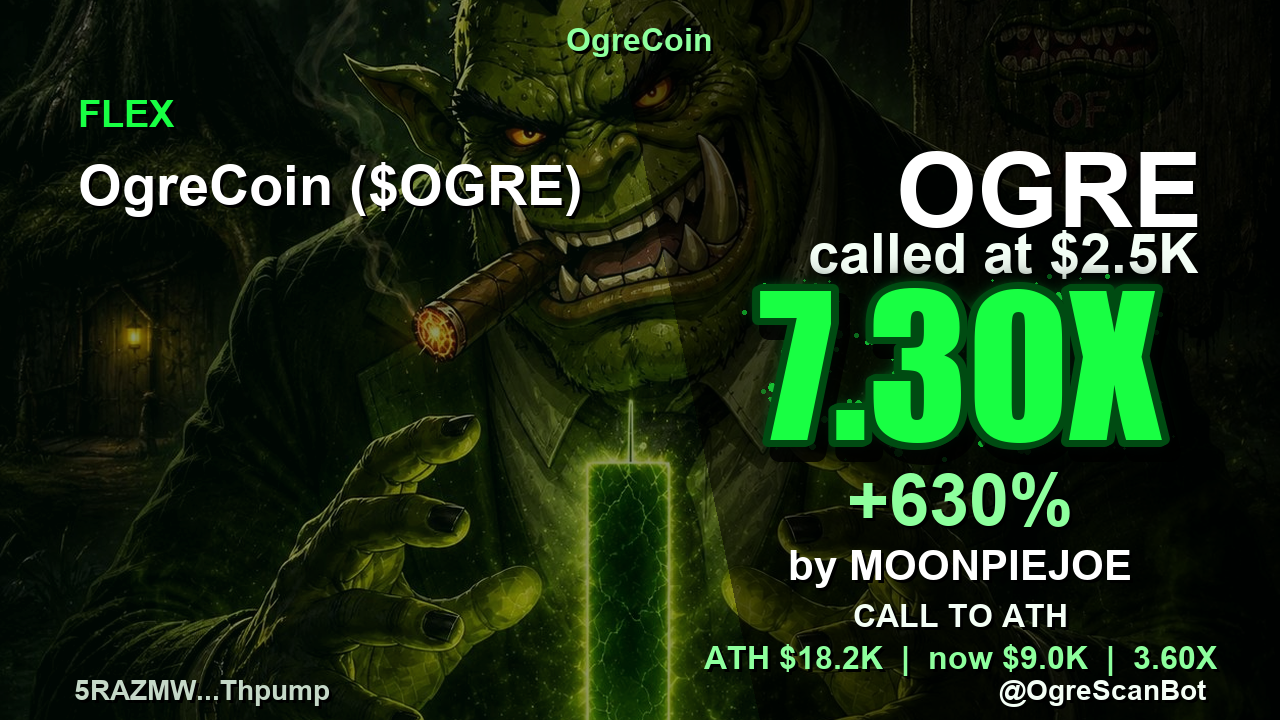
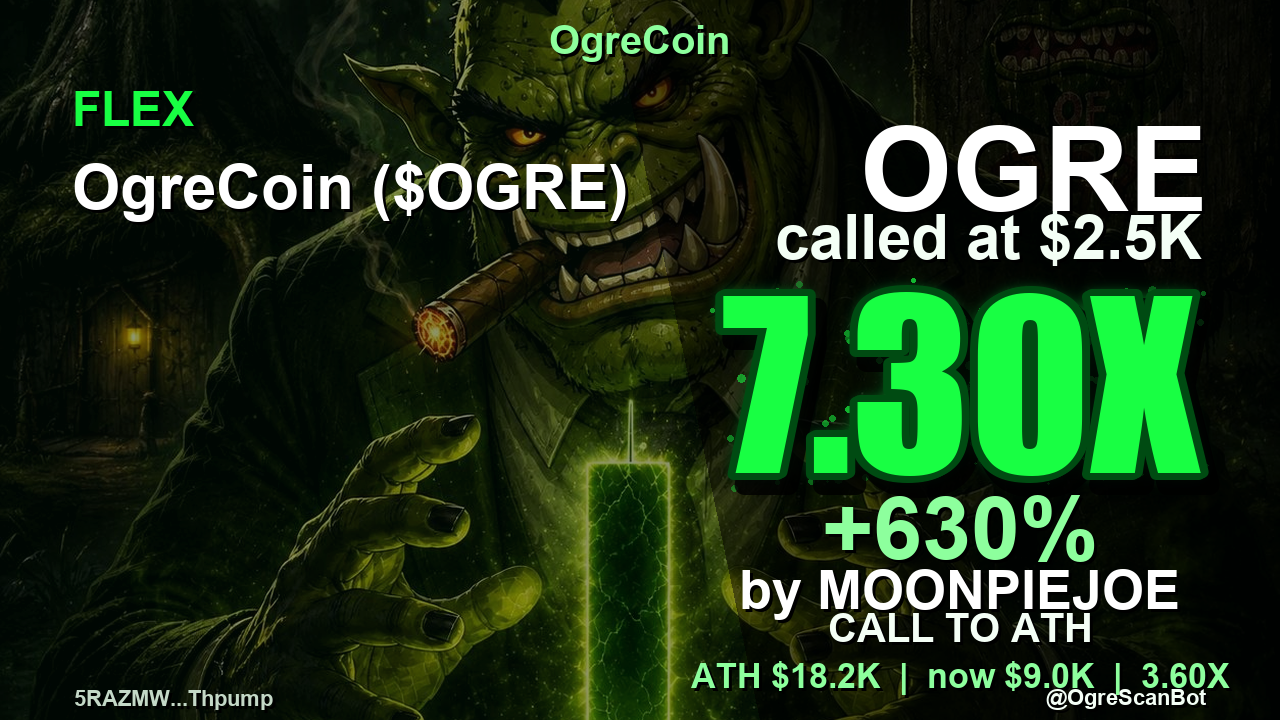
g

diff --git a/ogrescanbot/bot.py b/ogrescanbot/bot.py
@@ -2,6 +2,7 @@ from __future__ import annotations
 
 import asyncio
 from dataclasses import replace
+import html
 import logging
 from io import BytesIO
 from pathlib import Path
@@ -10,7 +11,7 @@ import time
 from aiogram import Bot, Dispatcher, F
 from aiogram.enums import ParseMode
 from aiogram.filters import Command
-from aiogram.types import BufferedInputFile, ChatMemberUpdated, Message
+from aiogram.types import BufferedInputFile, CallbackQuery, ChatMemberUpdated, InlineKeyboardButton, InlineKeyboardMarkup, Message
 from aiogram.client.default import DefaultBotProperties
 from aiogram.webhook.aiohttp_server import SimpleRequestHandler, setup_application
 from aiohttp import ClientError, web
@@ -118,7 +119,9 @@ class OgreScanApp:
         self.dp.message.register(self.set_backup_channel_command, lambda message: is_backup_command(message.text or ""))
         self.dp.message.register(self.scan_command, Command("scan"))
         self.dp.message.register(self.pnl_command, Command("pnl", "flex"))
+        self.dp.message.register(self.pnl_command, lambda message: is_plain_card_command(message.text or ""))
         self.dp.message.register(self.leaderboard_command, Command("lb", "leaderboard"))
+        self.dp.callback_query.register(self.leaderboard_period_callback, F.data.startswith("lb:"))
         self.dp.message.register(self.backup_command, Command("backup"))
         self.dp.message.register(self.auto_scan_message, F.text)
         self.dp.channel_post.register(self.channel_post_text_handler, F.text)
@@ -156,8 +159,8 @@ class OgreScanApp:
 
     async def pnl_command(self, message: Message) -> None:
         query = first_token_query_from_message(message)
-        command = (message.text or "").split(maxsplit=1)[0].lower()
-        title = "FLEX" if command.startswith("/flex") else "PNL"
+        command = command_name(message.text or "")
+        title = "FLEX" if command == "flex" else "PNL"
         if not query:
             await message.reply(f"Send /{title.lower()} followed by a Solana contract address or $ticker.")
             return
@@ -172,18 +175,24 @@ class OgreScanApp:
             await message.reply("I need a Telegram user to attach this card to.")
             return
 
-        call, _ = await self.db.upsert_call(message.chat.id, token, user.id, user_display_name(user))
+        try:
+            call, _ = await self.db.upsert_call(message.chat.id, token, user.id, user_display_name(user))
+        except ValueError:
+            await message.reply("That token is missing market cap/FDV data, so I cannot build a tracked PNL/FLEX card yet.")
+            return
         await self.maybe_backup_database()
         current_x = call.last_cap / call.initial_cap if call.initial_cap else call.peak_multiple
         result_line = pnl_result_line(call, current_x)
         card = build_pnl_card(token, call, title=title)
         photo = BufferedInputFile(card.getvalue(), filename=card.name)
+        token_title = html.escape(f"{token.name} (${token.symbol})")
+        player = html.escape(user_display_name(user))
         await message.reply_photo(
             photo,
             caption=(
                 f"🧌 <b>{title} CARD</b>\n"
-                f"<b>{token.name} (${token.symbol})</b>\n"
-                f"Player <b>{user_display_name(user)}</b>\n"
+                f"<b>{token_title}</b>\n"
+                f"Player <b>{player}</b>\n"
                 f"Called <b>{plain_money(call.initial_cap)}</b> | ATH <b>{plain_money(call.peak_cap)}</b>\n"
                 f"{result_line}"
                 f"{powered_by_footer()}"
@@ -192,16 +201,37 @@ class OgreScanApp:
 
     async def leaderboard_command(self, message: Message) -> None:
         args = command_args(message)
-        period, since_ts = period_to_since(args[0] if args else "1w")
+        period, text, markup = await self.build_leaderboard_message(message.chat.id, args[0] if args else "1d")
+        await message.reply(text, reply_markup=markup, disable_web_page_preview=True)
+
+    async def leaderboard_period_callback(self, callback: CallbackQuery) -> None:
+        if not callback.message or not callback.data:
+            await callback.answer()
+            return
+        requested = callback.data.split(":", 1)[1]
+        _period, text, markup = await self.build_leaderboard_message(callback.message.chat.id, requested)
+        try:
+            await callback.message.edit_text(text, reply_markup=markup, disable_web_page_preview=True)
+            await callback.answer()
+        except Exception:
+            logging.exception("Leaderboard period update failed.")
+            await callback.answer("Could not update leaderboard right now.", show_alert=False)
+
+    async def build_leaderboard_message(
+        self,
+        chat_id: int,
+        requested_period: str,
+    ) -> tuple[str, str, InlineKeyboardMarkup]:
+        period, since_ts = period_to_since(requested_period)
         traders = await self.db.top_traders(
-            message.chat.id,
+            chat_id,
             since_ts=since_ts,
             min_hit_multiple=self.settings.min_multiple_for_hit,
             limit=5,
         )
-        calls = await self.db.leaderboard(message.chat.id, since_ts=since_ts, limit=10)
-        stats = await self.db.stats(message.chat.id, since_ts, self.settings.min_multiple_for_hit)
-        await message.reply(format_leaderboard(period, traders, calls, stats), disable_web_page_preview=True)
+        calls = await self.db.leaderboard(chat_id, since_ts=since_ts, limit=10)
+        stats = await self.db.stats(chat_id, since_ts, self.settings.min_multiple_for_hit)
+        return period, format_leaderboard(period, traders, calls, stats), leaderboard_keyboard(period)
 
     async def backup_command(self, message: Message) -> None:
         if not self.sqlite_backup_enabled():
@@ -559,9 +589,39 @@ def command_args(message: Message) -> list[str]:
     return parts[1].split()
 
 
+def command_name(text: str) -> str:
+    first = (text or "").strip().split(maxsplit=1)[0].lower()
+    first = first.removeprefix("/")
+    return first.split("@", 1)[0]
+
+
+def is_plain_card_command(text: str) -> bool:
+    stripped = (text or "").strip()
+    if not stripped or stripped.startswith("/"):
+        return False
+    return command_name(stripped) in {"pnl", "flex"}
+
+
 def first_token_query_from_message(message: Message) -> str | None:
-    queries = extract_token_queries(message.text or message.caption or "")
-    return queries[0] if queries else None
+    sources = [message.text, message.caption]
+    reply = getattr(message, "reply_to_message", None)
+    if reply:
+        sources.extend([reply.text, reply.caption])
+
+    for source in sources:
+        queries = extract_token_queries(source or "")
+        if queries:
+            return queries[0]
+    return None
+
+
+def leaderboard_keyboard(active_period: str) -> InlineKeyboardMarkup:
+    periods = [("1d", "1D"), ("1w", "1W"), ("2w", "2W"), ("1m", "1M")]
+    buttons = []
+    for key, label in periods:
+        text = f"• {label} •" if key == active_period else label
+        buttons.append(InlineKeyboardButton(text=text, callback_data=f"lb:{key}"))
+    return InlineKeyboardMarkup(inline_keyboard=[buttons])
 
 
 def is_backup_command(text: str) -> bool:

diff --git a/ogrescanbot/images.py b/ogrescanbot/images.py
@@ -29,14 +29,15 @@ def build_pnl_card(token: TokenScan, call: CallRecord, title: str = "PNL") -> By
     glow_dark = "#004b12" if metrics["positive"] else "#4b0000"
     glow_mid = "#0b9f2d" if metrics["positive"] else "#b31818"
 
-    font_result = _headline_font(188 if len(headline) <= 6 else 162)
-    font_percent = _font(72, bold=True)
-    font_brand = _font(104, bold=True)
-    font_label = _font(38, bold=True)
-    font_mid = _font(56, bold=True)
-    font_small = _font(42, bold=True)
-    font_tiny = _font(32, bold=True)
-    font_footer = _font(28, bold=True)
+    font_result = _fit_headline_font(headline, max_width=560, start_size=224)
+    font_percent = _font(88, bold=True)
+    font_brand = _font(118, bold=True)
+    font_label = _font(48, bold=True)
+    font_mid = _font(62, bold=True)
+    font_small = _font(54, bold=True)
+    font_tiny = _font(40, bold=True)
+    font_detail = _font(34, bold=True)
+    font_footer = _font(22, bold=True)
 
     overlay = Image.new("RGBA", image.size, (0, 0, 0, 0))
     overlay_draw = ImageDraw.Draw(overlay, "RGBA")
@@ -45,16 +46,16 @@ def build_pnl_card(token: TokenScan, call: CallRecord, title: str = "PNL") -> By
     image = Image.alpha_composite(image, overlay)
     draw = ImageDraw.Draw(image, "RGBA")
 
-    _shadow_text(draw, (78, 92), title.upper(), font=font_label, fill=accent)
-    _shadow_text(draw, (78, 154), _shorten(f"{token.name} (${token.symbol})", 24), font=font_mid, fill="#ffffff")
+    _shadow_text(draw, (72, 82), title.upper(), font=font_label, fill=accent)
+    _shadow_text(draw, (72, 152), _shorten(f"{token.name} (${token.symbol})", 24), font=font_mid, fill="#ffffff")
     _shadow_text(draw, (width // 2, 40), _shorten(token.name, 16), font=font_tiny, fill=accent_soft, anchor="mm")
 
-    _shadow_text(draw, (width - 78, 132), "OGRE", font=font_brand, fill="#ffffff", anchor="ra")
-    _shadow_text(draw, (width - 82, 222), f"called at {money(call.initial_cap)}", font=font_mid, fill="#f4fff6", anchor="ra")
+    _shadow_text(draw, (width - 72, 104), "OGRE", font=font_brand, fill="#ffffff", anchor="ra")
+    _shadow_text(draw, (width - 78, 202), f"called at {money(call.initial_cap)}", font=font_mid, fill="#f4fff6", anchor="ra")
 
     _spray_text(
         image,
-        (960, 365),
+        (960, 384),
         headline,
         font_result,
         fill=accent,
@@ -62,17 +63,17 @@ def build_pnl_card(token: TokenScan, call: CallRecord, title: str = "PNL") -> By
         glow_mid=glow_mid,
     )
     draw = ImageDraw.Draw(image, "RGBA")
-    _shadow_text(draw, (960, 500), str(metrics["percent"]), font=font_percent, fill=accent_soft, anchor="mm")
-    _shadow_text(draw, (960, 565), f"by {_shorten(call.caller_name, 16).upper()}", font=font_small, fill="#ffffff", anchor="mm")
-    _shadow_text(draw, (960, 616), str(metrics["caption"]), font=font_tiny, fill="#f4fff6", anchor="mm")
+    _shadow_text(draw, (960, 528), str(metrics["percent"]), font=font_percent, fill=accent_soft, anchor="mm")
+    _shadow_text(draw, (960, 590), f"by {_shorten(call.caller_name, 14).upper()}", font=font_small, fill="#ffffff", anchor="mm")
+    _shadow_text(draw, (960, 628), str(metrics["caption"]), font=font_tiny, fill="#f4fff6", anchor="mm")
 
     detail = f"ATH {money(call.peak_cap)}  |  now {money(call.last_cap)}  |  {metrics['current_x']}"
-    _shadow_text(draw, (960, 658), detail, font=font_tiny, fill=accent_soft, anchor="mm")
+    _shadow_text(draw, (960, 676), detail, font=font_detail, fill=accent_soft, anchor="mm")
 
     short_ca = f"{token.address[:6]}...{token.address[-6:]}"
-    footer_y = height - 46
-    _shadow_text(draw, (width - 74, footer_y), "@OgreScanBot", fill="#f4fff6", font=font_footer, anchor="ra")
-    _shadow_text(draw, (74, footer_y), short_ca, fill="#c4d8c7", font=font_footer)
+    footer_y = height - 10
+    _shadow_text(draw, (width - 74, footer_y), "@OgreScanBot", fill="#f4fff6", font=font_footer, anchor="rb")
+    _shadow_text(draw, (74, footer_y), short_ca, fill="#c4d8c7", font=font_footer, anchor="lb")
 
     output = BytesIO()
     image.convert("RGB").save(output, format="PNG")
@@ -347,6 +348,21 @@ def _headline_font(size: int) -> ImageFont.FreeTypeFont | ImageFont.ImageFont:
         except OSError:
             continue
     return ImageFont.load_default()
+
+
+def _fit_headline_font(
+    text: str,
+    max_width: int,
+    start_size: int = 232,
+    min_size: int = 150,
+) -> ImageFont.FreeTypeFont | ImageFont.ImageFont:
+    measuring = ImageDraw.Draw(Image.new("RGB", (1, 1)))
+    for size in range(start_size, min_size - 1, -6):
+        font = _headline_font(size)
+        left, _top, right, _bottom = measuring.textbbox((0, 0), text, font=font, stroke_width=10)
+        if right - left <= max_width:
+            return font
+    return _headline_font(min_size)
 
 
 def _font(size: int, bold: bool = False) -> ImageFont.FreeTypeFont | ImageFont.ImageFont:

diff --git a/ogrescanbot/db.py b/ogrescanbot/db.py
@@ -519,13 +519,27 @@ class Database:
 
 def period_to_since(period: str | None) -> tuple[str, int | None]:
     normalized = (period or "all").strip().lower()
+    aliases = {
+        "1day": "1d",
+        "day": "1d",
+        "1week": "1w",
+        "week": "1w",
+        "2week": "2w",
+        "2weeks": "2w",
+        "14d": "2w",
+        "1month": "1m",
+        "month": "1m",
+        "30d": "1m",
+        "1mo": "1m",
+    }
+    normalized = aliases.get(normalized, normalized)
     now = int(time.time())
     mapping = {
         "1d": 86400,
         "24h": 86400,
         "1w": 86400 * 7,
         "7d": 86400 * 7,
-        "30d": 86400 * 30,
+        "2w": 86400 * 14,
         "1m": 86400 * 30,
         "all": 0,
     }

diff --git a/ogrescanbot/formatting.py b/ogrescanbot/formatting.py
@@ -219,8 +219,8 @@ def format_help(bot_name: str) -> str:
         "|- /scan &lt;ca, link, or $ticker&gt;\n"
         "|- /pnl &lt;ca or $ticker&gt;\n"
         "|- /flex &lt;ca or $ticker&gt;\n"
-        "|- /leaderboard 1w\n"
-        "|- /lb 1d | /lb 1w | /lb 30d | /lb all\n"
+        "|- /leaderboard\n"
+        "|- /lb 1d | /lb 1w | /lb 2w | /lb 1m\n"
         "|- /backup"
         f"{powered_by_footer()}"
     )

diff --git a/README.md b/README.md
@@ -12,7 +12,7 @@ Solana-first Telegram scanner bot using free/public data sources.
 - Tracks each chat separately.
 - Builds leaderboards based on the biggest X return from a single call.
 - Leaderboards use a compact tree-and-quote layout for top callers, group stats, and best trades.
-- Generates call-based PNL/flex cards with `/pnl <ca>` or `/flex <ca>`.
+- Generates matching call-based PNL/flex cards with `/pnl <ca>`, `/flex <ca>`, `pnl <ca>`, or `flex <ca>`.
 - PNL/flex cards use text over the image with no stat boxes, showing a big green call-to-ATH X or a big red loss.
 - Pulls token metadata images/descriptions from Dexscreener and falls back to Pump.fun public metadata when available.
 - Shows DEX paid status and RugCheck dev-sold status when free endpoints return it.
@@ -58,11 +58,14 @@ python -m ogrescanbot
 /scan <solana_ca_or_link_or_$ticker>
 /pnl <solana_ca>
 /flex <solana_ca>
+pnl <solana_ca>
+flex <solana_ca>
 /lb
 /leaderboard
 /lb 1d
 /lb 1w
-/lb 30d
+/lb 2w
+/lb 1m
 /backup
 /help
 ```